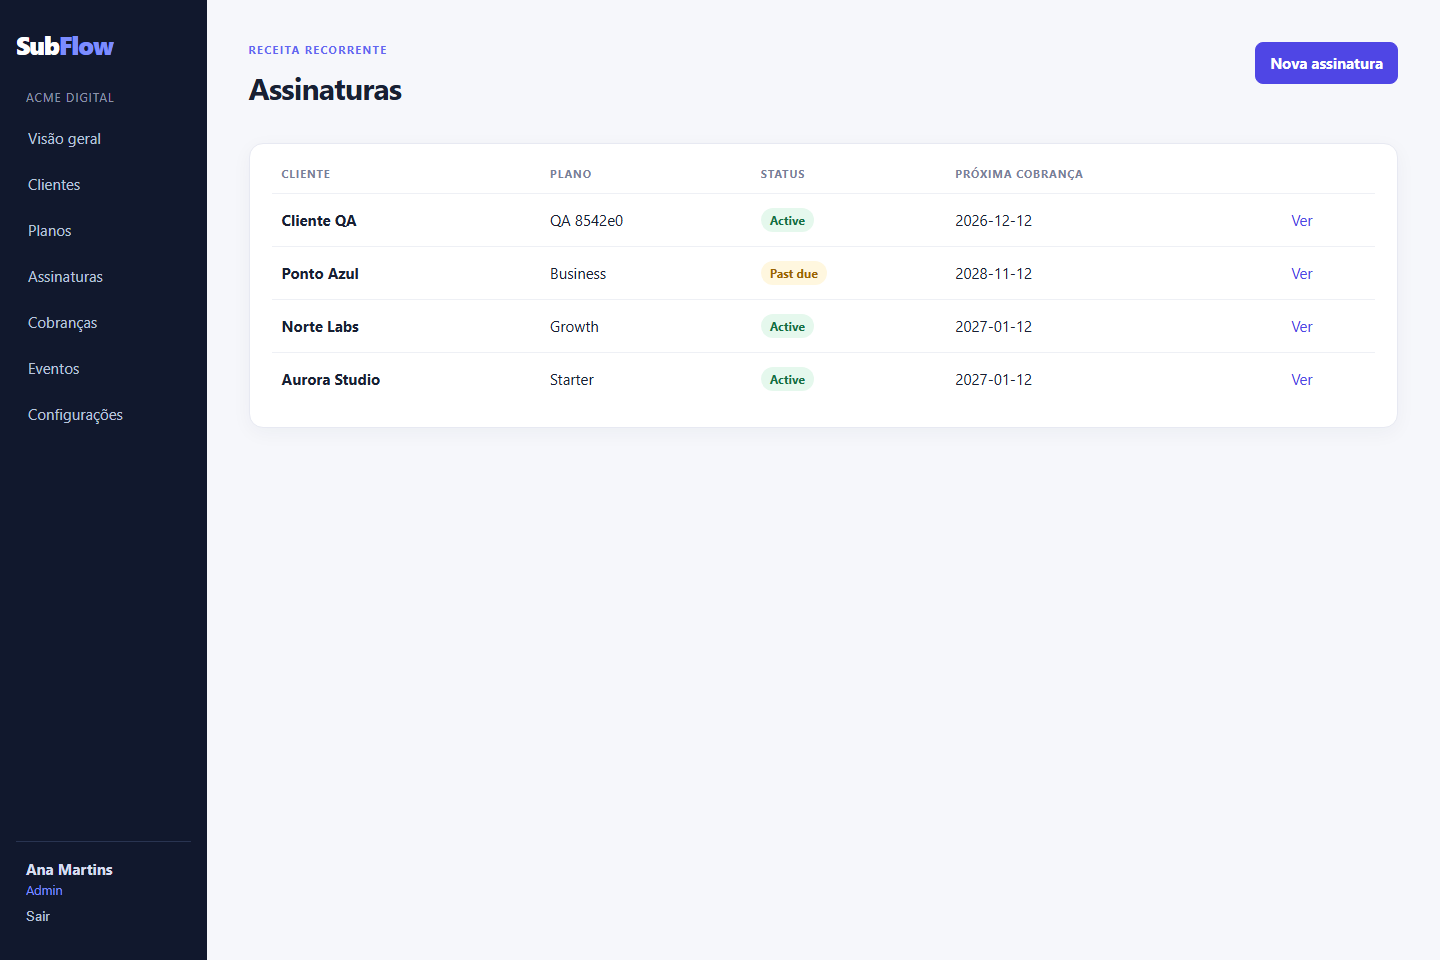
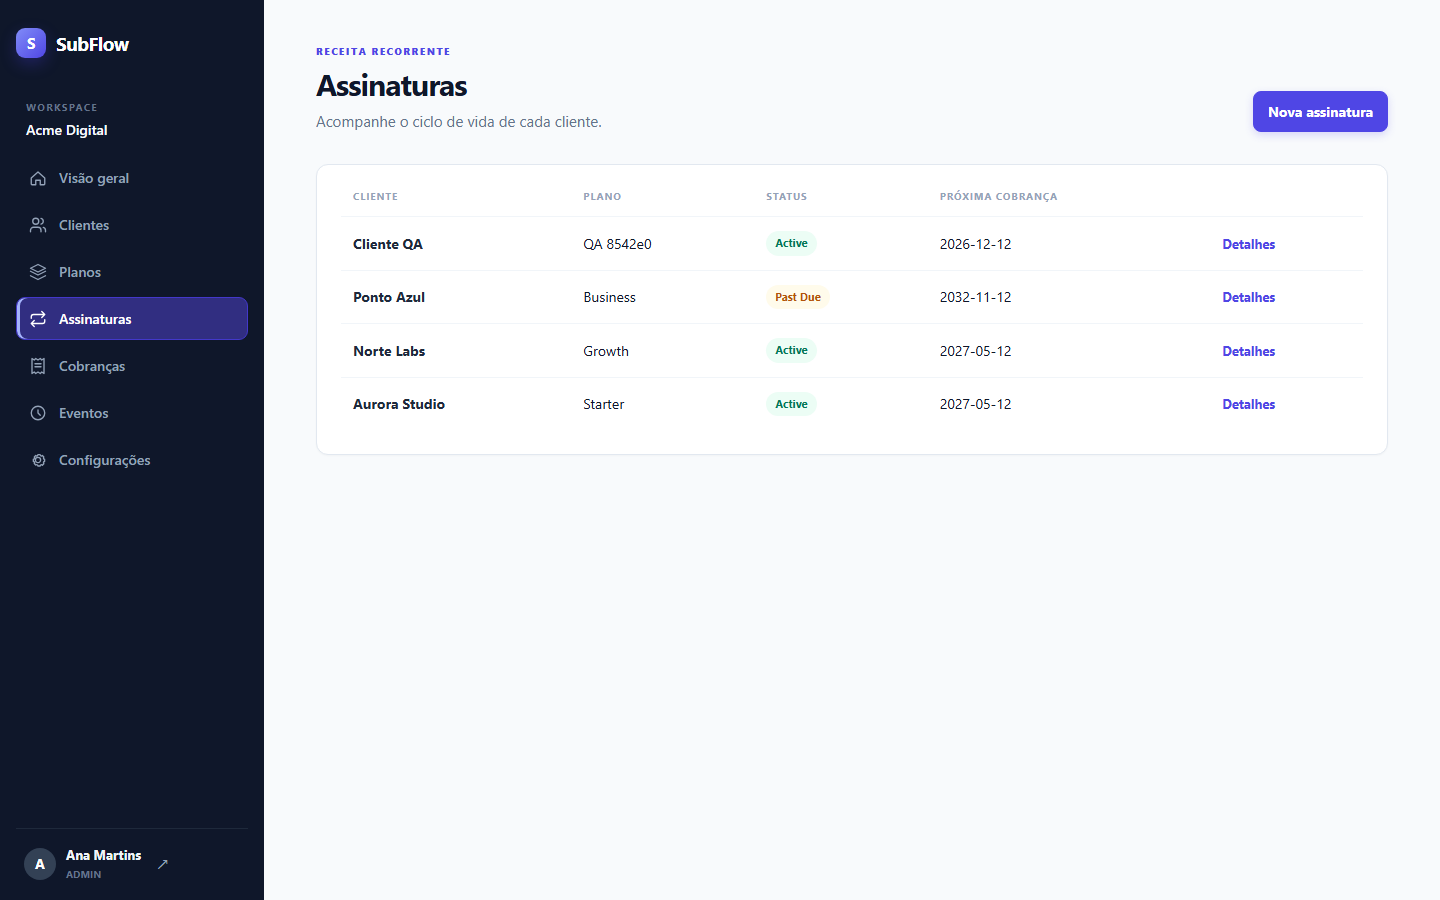
feat: finaliza redesign responsivo e valida interface do SubFlow

diff --git a/app/assets/stylesheets/application.css b/app/assets/stylesheets/application.css
@@ -1,4 +1,3 @@
 @import "tailwindcss";
-@layer base { *{box-sizing:border-box} body{margin:0;background:#f6f7fb;color:#182033;font:15px Inter,ui-sans-serif,system-ui,sans-serif} a{color:#4f46e5;text-decoration:none} h1,h2,p{margin-top:0} }
-@media(max-width:760px){.app-shell{display:block!important}.sidebar{width:100%!important;padding:14px 18px!important;display:block!important}.sidebar .brand{font-size:22px!important}.sidebar .brand span{font-size:22px!important}.sidebar .brand:before{content:none!important}.workspace{display:none!important}.sidebar nav{display:flex!important;overflow-x:auto;gap:4px;margin-top:12px}.sidebar nav a{white-space:nowrap;font-size:13px!important;padding:8px 10px!important;height:auto!important}.user{display:none!important}}
-.app-shell{display:flex;min-height:100vh}.sidebar{width:238px;background:#11182d;color:#d7def2;padding:28px 16px;display:flex;flex-direction:column}.brand{font-size:25px;font-weight:800;letter-spacing:-1px;color:white}.brand span{color:#7c8cff}.workspace{font-size:12px;opacity:.62;margin:28px 10px 12px;text-transform:uppercase;letter-spacing:.08em}.sidebar nav{display:grid;gap:4px}.sidebar nav a{color:#bac4dc;padding:11px 12px;border-radius:9px}.sidebar nav a:hover{background:#202a48;color:white}.user{margin-top:auto;border-top:1px solid #293451;padding:17px 10px 0;display:grid;gap:3px}.user small{color:#7c8cff;text-transform:capitalize}.link-button{border:0;background:none;color:#bac4dc;padding:8px 0;text-align:left;cursor:pointer}.main{width:100%;max-width:1350px;margin:0 auto;padding:42px}.auth-shell{display:grid;place-items:center;min-height:100vh;background:radial-gradient(circle at top right,#e0e7ff,#f6f7fb 47%)}.auth-shell .main{max-width:470px;padding:24px}.auth-card,.panel,.metric,.plan-card{background:#fff;border:1px solid #e7e9f2;border-radius:14px;box-shadow:0 5px 20px #1a23400b}.auth-card{padding:42px}.auth-card .brand{color:#182033;display:block;margin-bottom:38px}.auth-card .brand span{color:#4f46e5}.eyebrow{font-size:11px;letter-spacing:.12em;font-weight:750;color:#6366f1}.muted{color:#687086}.page-head{display:flex;justify-content:space-between;align-items:flex-start;margin-bottom:28px;gap:16px}.page-head h1{font-size:30px;letter-spacing:-.8px;margin-bottom:7px}.button{display:inline-block;border:1px solid #d9ddec;border-radius:8px;background:white;color:#26304d;padding:10px 14px;font-weight:650;cursor:pointer}.button.primary{background:#4f46e5;color:white;border-color:#4f46e5}.button.danger{color:#c63448;border-color:#f2c5ce}.metric-grid{display:grid;grid-template-columns:repeat(3,1fr);gap:16px;margin-bottom:26px}.metric{padding:19px;display:grid;gap:7px}.metric span,.detail-grid span{color:#707a91;font-size:13px}.metric strong{font-size:27px;letter-spacing:-1px}.metric.featured{background:linear-gradient(135deg,#3730a3,#6366f1);color:white}.metric.featured span,.metric.featured small{color:#d7ddff}.panel{padding:22px;margin-bottom:22px}.panel-head{display:flex;justify-content:space-between}.panel h2{font-size:17px}.cards{display:grid;grid-template-columns:repeat(auto-fit,minmax(230px,1fr));gap:16px}.plan-card{padding:23px;display:grid;gap:14px}.plan-card h2{margin:0}.plan-card strong{font-size:24px}.plan-card small{font-size:13px;color:#75809a}table{width:100%;border-collapse:collapse}th{text-align:left;color:#778098;font-size:11px;text-transform:uppercase;letter-spacing:.08em;padding:0 10px 12px}td{padding:14px 10px;border-top:1px solid #eef0f5}td small{display:block;color:#7a849a;margin-top:3px}.badge{display:inline-block;padding:4px 9px;border-radius:99px;background:#eef2ff;color:#4f46e5;font-weight:700;font-size:12px}.badge-paid,.badge-active{background:#e5f8ed;color:#167043}.badge-failed,.badge-canceled{background:#fff0f2;color:#c63448}.badge-open,.badge-past_due{background:#fff7df;color:#9a6400}.form-grid{display:grid;grid-template-columns:repeat(2,1fr);gap:17px}.form-grid label,.auth-card label{display:grid;gap:7px;font-weight:650;color:#35405b}.auth-card form{display:grid;gap:17px;margin:25px 0}.wide{grid-column:1/-1}input,select,textarea{width:100%;border:1px solid #d8ddea;border-radius:8px;padding:10px;background:white;font:inherit;color:#182033}.form-error,.flash{padding:12px 15px;border-radius:9px;margin-bottom:18px;background:#eef2ff;color:#4338ca}.flash.alert,.form-error{background:#fff0f2;color:#ad2940}.filters{display:flex;gap:10px;margin-bottom:18px}.filters input{max-width:320px}.detail-grid{display:grid;grid-template-columns:repeat(3,1fr);gap:20px}.detail-grid div{display:grid;gap:7px}.empty{padding:30px;color:#74809a;text-align:center}.simulation{display:grid;gap:8px;background:#fff8e8;border:1px solid #ffe1a3;padding:14px;border-radius:10px;color:#865900;font-size:12px}.simulation form{display:inline}@media(max-width:760px){.sidebar{width:62px;padding:19px 8px}.sidebar .brand{font-size:0}.sidebar .brand span{font-size:0}.sidebar .brand:before{content:"S";font-size:23px}.sidebar .workspace,.sidebar nav a,.user strong,.user small,.link-button{font-size:0}.sidebar nav a{height:38px}.main{padding:22px}.metric-grid{grid-template-columns:repeat(2,1fr)}.form-grid,.detail-grid{grid-template-columns:1fr}.page-head{display:block}.page-head .button{margin-top:12px}table{font-size:13px;display:block;overflow-x:auto}}
+@layer base { :root{--ink:#0f172a;--muted:#64748b;--line:#e2e8f0;--surface:#fff;--canvas:#f8fafc;--primary:#4f46e5;--navy:#0f172a;--success:#059669;--warning:#d97706;--danger:#dc2626}*{box-sizing:border-box}body{margin:0;background:var(--canvas);color:var(--ink);font:14px Inter,ui-sans-serif,system-ui,-apple-system,BlinkMacSystemFont,"Segoe UI",sans-serif;line-height:1.5}a{color:inherit;text-decoration:none}button,input,select,textarea{font:inherit}button{cursor:pointer}h1,h2,h3,p{margin:0} }
+.app-shell{min-height:100vh;padding-left:264px}.sidebar{position:fixed;inset:0 auto 0 0;width:264px;background:var(--navy);padding:28px 16px 18px;color:#cbd5e1;display:flex;flex-direction:column;z-index:20}.brand{display:flex;align-items:center;gap:10px;color:#fff;font-size:19px;font-weight:750;letter-spacing:-.5px}.brand-mark{width:30px;height:30px;border-radius:9px;display:grid;place-items:center;background:linear-gradient(135deg,#818cf8,#4f46e5);font-size:15px;box-shadow:0 6px 16px #4338ca55}.workspace-label{color:#64748b;font-size:10px;font-weight:700;letter-spacing:.13em;margin:42px 10px 4px}.workspace-name{color:#f8fafc;font-weight:600;margin:0 10px 16px}.desktop-nav{display:grid;gap:4px}.nav-link{display:flex;align-items:center;gap:12px;padding:10px 12px;border:1px solid transparent;border-radius:9px;color:#94a3b8;font-weight:550;transition:.15s ease}.nav-link:hover{color:#fff;background:#1e293b}.nav-link.is-active{color:#fff;background:#312e81;border-color:#4338ca;box-shadow:inset 3px 0 #a5b4fc}.icon{width:18px;height:18px;flex:none}.sidebar-user{border-top:1px solid #1e293b;margin-top:auto;padding:16px 8px 0;display:flex;align-items:center;gap:10px}.avatar{width:32px;height:32px;border-radius:50%;background:#334155;color:#fff;display:grid;place-items:center;font-weight:700}.sidebar-user strong{display:block;color:#f1f5f9;font-size:13px}.sidebar-user small{display:block;color:#64748b;font-size:10px;font-weight:700;margin-top:2px}.logout-button{margin-left:auto;border:0;background:transparent;color:#94a3b8;font-size:18px;padding:5px}.logout-button:hover{color:#fff}.mobile-topbar{display:none}.main{max-width:1440px;margin:0 auto;padding:44px 52px 64px}.page-header{display:flex;justify-content:space-between;align-items:flex-end;gap:24px;margin-bottom:32px}.eyebrow{color:var(--primary);font-size:10px;font-weight:800;letter-spacing:.14em;margin-bottom:8px}.page-header h1{font-size:30px;letter-spacing:-1px;line-height:1.15}.page-description{color:var(--muted);margin-top:8px;font-size:15px}.header-action{flex:none}.button{display:inline-flex;align-items:center;justify-content:center;min-height:40px;padding:9px 14px;border:1px solid #cbd5e1;border-radius:8px;background:#fff;color:#334155;font-weight:650;white-space:nowrap;transition:.15s}.button:hover{border-color:#94a3b8;background:#f8fafc}.button.primary{background:var(--primary);border-color:var(--primary);color:#fff;box-shadow:0 3px 8px #4f46e533}.button.primary:hover{background:#4338ca}.button.danger{color:#b91c1c;border-color:#fecaca}.button.danger:hover{background:#fff1f2}.section-card,.panel{background:var(--surface);border:1px solid var(--line);border-radius:12px;box-shadow:0 1px 2px #0f172a08}.panel{padding:24px}.section-heading{display:flex;justify-content:space-between;align-items:center;margin-bottom:18px}.section-heading h2{font-size:16px;letter-spacing:-.2px}.section-heading a{color:var(--primary);font-weight:650;font-size:13px}.metric-grid{display:grid;grid-template-columns:repeat(4,minmax(0,1fr));gap:16px;margin-bottom:20px}.metric{padding:19px;border:1px solid var(--line);border-radius:12px;background:#fff;min-height:126px;display:flex;flex-direction:column}.metric-label{display:flex;align-items:center;justify-content:space-between;color:var(--muted);font-size:12px;font-weight:650}.metric-icon{width:28px;height:28px;display:grid;place-items:center;border-radius:8px;background:#eef2ff;color:var(--primary)}.metric strong{font-size:25px;letter-spacing:-1px;margin-top:auto}.metric small{color:var(--muted);font-size:11px}.metric.featured{grid-column:span 2;background:linear-gradient(135deg,#312e81,#4f46e5);border:0;color:#fff;box-shadow:0 12px 24px #4338ca2e}.metric.featured .metric-label,.metric.featured small{color:#c7d2fe}.metric.featured .metric-icon{background:#ffffff1c;color:#fff}.metric.featured strong{font-size:31px}.dashboard-lower{display:grid;grid-template-columns:minmax(0,1.55fr) minmax(270px,.75fr);gap:20px}.status-summary{display:grid;gap:13px}.status-row{display:grid;grid-template-columns:76px 1fr 28px;gap:10px;align-items:center;font-size:12px;color:#475569}.status-track{height:7px;border-radius:99px;background:#f1f5f9;overflow:hidden}.status-fill{height:100%;border-radius:inherit;background:#818cf8}.status-fill.paid{background:#34d399}.status-fill.failed{background:#fb7185}.status-badge{display:inline-flex;width:max-content;align-items:center;border-radius:999px;padding:4px 9px;font-size:11px;font-weight:750;text-transform:capitalize;background:#eef2ff;color:#4338ca}.status-active,.status-paid{background:#ecfdf5;color:#047857}.status-canceled,.status-failed{background:#fff1f2;color:#be123c}.status-open,.status-past_due,.status-trialing{background:#fffbeb;color:#b45309}.status-inactive{background:#f1f5f9;color:#475569}.table-wrap{overflow-x:auto}.data-table{width:100%;border-collapse:collapse}.data-table th{text-align:left;color:#94a3b8;font-size:10px;text-transform:uppercase;letter-spacing:.09em;padding:0 12px 12px;font-weight:750}.data-table td{padding:14px 12px;border-top:1px solid #f1f5f9;vertical-align:middle}.data-table tr:hover td{background:#fafafa}.entity-name{font-weight:650;color:#1e293b}.entity-meta{display:block;color:#94a3b8;font-size:12px;margin-top:2px}.table-link{color:var(--primary);font-weight:650;font-size:13px}.cards{display:grid;grid-template-columns:repeat(auto-fit,minmax(250px,1fr));gap:16px}.plan-card{position:relative;padding:22px;display:flex;flex-direction:column;gap:16px;background:#fff;border:1px solid var(--line);border-radius:12px;transition:.15s}.plan-card:hover{transform:translateY(-2px);box-shadow:0 12px 22px #0f172a0d;border-color:#c7d2fe}.plan-card h2{font-size:18px}.plan-card p{color:var(--muted);font-size:13px;min-height:40px}.plan-price{font-size:26px;font-weight:750;letter-spacing:-1px}.plan-price small{font-size:12px;color:var(--muted);font-weight:500;letter-spacing:0}.plan-card .button{margin-top:auto}.form-card{max-width:760px}.form-grid{display:grid;grid-template-columns:repeat(2,minmax(0,1fr));gap:18px}.form-grid label{display:grid;gap:7px;color:#334155;font-size:13px;font-weight:650}.wide{grid-column:1/-1}.form-actions{display:flex;align-items:end;gap:10px}.field-hint{color:#94a3b8;font-size:11px;font-weight:450}input,select,textarea{width:100%;border:1px solid #cbd5e1;border-radius:8px;background:#fff;color:#0f172a;padding:10px 11px;outline:0;transition:.15s}textarea{min-height:100px;resize:vertical}input:focus,select:focus,textarea:focus{border-color:#6366f1;box-shadow:0 0 0 3px #6366f11f}.check-label{display:flex!important;align-items:center;gap:9px}.check-label input{width:16px;height:16px}.filters{display:flex;align-items:center;gap:10px;padding:14px;margin-bottom:16px}.filters input{max-width:360px}.filters select{max-width:180px}.detail-grid{display:grid;grid-template-columns:repeat(3,minmax(0,1fr));gap:0}.detail-grid>div{padding:2px 22px;border-right:1px solid var(--line);display:grid;gap:7px}.detail-grid>div:first-child{padding-left:0}.detail-grid>div:last-child{border:0}.detail-label{color:#94a3b8;font-size:11px;text-transform:uppercase;font-weight:750;letter-spacing:.08em}.simulation{display:flex;align-items:center;gap:10px;background:#fffbeb;border:1px solid #fde68a;border-radius:10px;padding:12px 14px;color:#92400e;font-size:12px}.simulation strong{letter-spacing:.05em}.empty-state{text-align:center;padding:48px 20px;color:var(--muted)}.empty-icon{width:42px;height:42px;border-radius:12px;margin:0 auto 12px;display:grid;place-items:center;background:#eef2ff;color:#4f46e5;font-size:25px}.empty-state h2{font-size:16px;color:#334155;margin-bottom:5px}.empty-state p{font-size:13px;max-width:350px;margin:0 auto 16px}.form-error,.flash{display:flex;gap:9px;align-items:center;border-radius:9px;padding:12px 14px;margin-bottom:20px;font-size:13px}.form-error,.flash-alert{background:#fff1f2;color:#be123c;border:1px solid #fecdd3}.flash-notice{background:#ecfdf5;color:#047857;border:1px solid #a7f3d0}.flash span{font-weight:800}.auth-shell{min-height:100vh;background:#f8fafc}.auth-shell .main{padding:0;max-width:none}.auth-layout{min-height:100vh;display:grid;grid-template-columns:1fr 1fr}.auth-aside{background:linear-gradient(145deg,#0f172a,#1e1b4b);color:#fff;padding:clamp(36px,7vw,100px);display:flex;flex-direction:column}.auth-aside .brand{margin-bottom:auto}.auth-aside h1{font-size:clamp(32px,4vw,52px);line-height:1.06;letter-spacing:-2px;max-width:480px;margin-top:80px}.auth-aside p{color:#c7d2fe;max-width:410px;margin-top:18px;font-size:16px}.auth-points{display:grid;gap:12px;margin-top:40px;color:#e0e7ff;font-size:13px}.auth-points span:before{content:'✓';color:#a5b4fc;margin-right:10px}.auth-content{display:grid;place-items:center;padding:32px}.auth-card{width:min(100%,420px)}.auth-card .brand{color:var(--ink);margin-bottom:42px}.auth-card h1{font-size:28px;letter-spacing:-1px;margin-bottom:8px}.auth-card>p{color:var(--muted)}.auth-card form{display:grid;gap:17px;margin:30px 0}.auth-card label{display:grid;gap:7px;color:#334155;font-size:13px;font-weight:650}.auth-card .button{width:100%;margin-top:5px}.auth-footer{font-size:13px}.auth-footer a{color:var(--primary);font-weight:650}.sr-only{position:absolute;width:1px;height:1px;padding:0;margin:-1px;overflow:hidden;clip:rect(0,0,0,0);white-space:nowrap;border:0}@media(max-width:900px){.app-shell{padding-left:0}.sidebar{display:none}.mobile-topbar{height:64px;padding:0 20px;background:var(--navy);display:flex;align-items:center;justify-content:space-between}.mobile-menu summary{list-style:none;color:#fff;font-size:24px;cursor:pointer;padding:8px}.mobile-menu summary::-webkit-details-marker{display:none}.mobile-menu nav{position:absolute;right:14px;top:57px;width:260px;padding:10px;background:#0f172a;border:1px solid #334155;border-radius:10px;box-shadow:0 18px 40px #0f172a55;display:grid;gap:3px}.mobile-menu .nav-link{color:#cbd5e1}.mobile-menu .nav-link.is-active{background:#312e81}.mobile-logout{border:0;border-top:1px solid #334155;background:transparent;color:#cbd5e1;text-align:left;padding:12px;font-weight:650;margin-top:5px}.main{padding:32px 28px}.metric-grid{grid-template-columns:repeat(2,minmax(0,1fr))}.dashboard-lower{grid-template-columns:1fr}.auth-layout{grid-template-columns:1fr}.auth-aside{display:none}}@media(max-width:560px){.main{padding:26px 16px 44px}.page-header{display:block;margin-bottom:24px}.page-header h1{font-size:25px}.header-action{margin-top:16px}.header-action .button{width:100%}.metric-grid{grid-template-columns:1fr;gap:12px}.metric.featured{grid-column:auto}.metric{min-height:108px}.filters{display:grid}.filters input,.filters select{max-width:none}.filters .button{width:100%}.panel{padding:17px;border-radius:10px}.data-table th,.data-table td{padding-left:8px;padding-right:8px}.form-grid{grid-template-columns:1fr}.form-actions{display:grid}.form-actions .button{width:100%}.detail-grid{grid-template-columns:1fr;gap:14px}.detail-grid>div{padding:0;border:0}.simulation{align-items:flex-start;flex-wrap:wrap}.auth-content{padding:28px 22px}.auth-card .brand{margin-bottom:32px}}@media(prefers-reduced-motion:reduce){*,*:before,*:after{transition:none!important;scroll-behavior:auto!important}}

diff --git a/app/helpers/application_helper.rb b/app/helpers/application_helper.rb
@@ -1,4 +1,15 @@
 module ApplicationHelper
+  NAV_ITEMS = [ [ "Visão geral", :root_path, "home" ], [ "Clientes", :customers_path, "users" ], [ "Planos", :plans_path, "layers" ], [ "Assinaturas", :subscriptions_path, "repeat" ], [ "Cobranças", :invoices_path, "receipt" ], [ "Eventos", :audit_events_path, "clock" ], [ "Configurações", :settings_path, "settings" ] ].freeze
+
   def money(cents) = number_to_currency(cents.to_i / 100.0, unit: "R$ ", separator: ",", delimiter: ".")
-  def status_badge(status) = content_tag(:span, status.to_s.humanize, class: "badge badge-#{status}")
+  def status_badge(status) = content_tag(:span, status.to_s.humanize, class: "status-badge status-#{status}")
+
+  def nav_icon(name)
+    paths = { "home" => "M3 12l9-8 9 8v8a1 1 0 01-1 1h-5v-6H9v6H4a1 1 0 01-1-1v-8z", "users" => "M16 21v-2a4 4 0 00-4-4H6a4 4 0 00-4 4v2M9 11a4 4 0 100-8 4 4 0 000 8zm13 10v-2a4 4 0 00-3-3.87M16 3.13a4 4 0 010 7.75", "layers" => "M12 2L2 7l10 5 10-5-10-5zm-10 9l10 5 10-5M2 17l10 5 10-5", "repeat" => "M17 2l4 4-4 4M3 11V9a3 3 0 013-3h15M7 22l-4-4 4-4m14-1v2a3 3 0 01-3 3H3", "receipt" => "M4 2v20l3-2 2 2 3-2 3 2 2-2 3 2V2l-3 2-2-2-3 2-3-2-2 2-3-2zM8 9h8M8 13h8", "clock" => "M12 8v4l3 3m6-3a9 9 0 11-18 0 9 9 0 0118 0z", "settings" => "M12 15.5a3.5 3.5 0 100-7 3.5 3.5 0 000 7zM19.4 15a1.65 1.65 0 00.33 1.82l.06.06-2 2-.06-.06a1.65 1.65 0 00-1.82-.33 1.65 1.65 0 00-1 1.51V20h-3v-.09a1.65 1.65 0 00-1-1.51 1.65 1.65 0 00-1.82.33l-.06.06-2-2 .06-.06A1.65 1.65 0 007.4 15a1.65 1.65 0 00-1.51-1H5.8v-3h.09a1.65 1.65 0 001.51-1 1.65 1.65 0 00-.33-1.82L7 8.12l2-2 .06.06a1.65 1.65 0 001.82.33 1.65 1.65 0 001-1.51V4.9h3V5a1.65 1.65 0 001 1.51 1.65 1.65 0 001.82-.33l.06-.06 2 2-.06.06A1.65 1.65 0 0019.4 10c.15.61.69 1 1.31 1h.09v3h-.09c-.62 0-1.16.39-1.31 1z" }
+    tag.svg(viewBox: "0 0 24 24", fill: "none", stroke: "currentColor", "stroke-width": 1.8, "aria-hidden": true, class: "icon") { tag.path(d: paths.fetch(name), "stroke-linecap": "round", "stroke-linejoin": "round") }
+  end
+
+  def navigation_links
+    NAV_ITEMS.map { |label, path_helper, icon| path = public_send(path_helper); link_to(path, class: "nav-link #{current_page?(path) ? 'is-active' : ''}") { safe_join([ nav_icon(icon), tag.span(label) ]) } }.join.html_safe
+  end
 end
